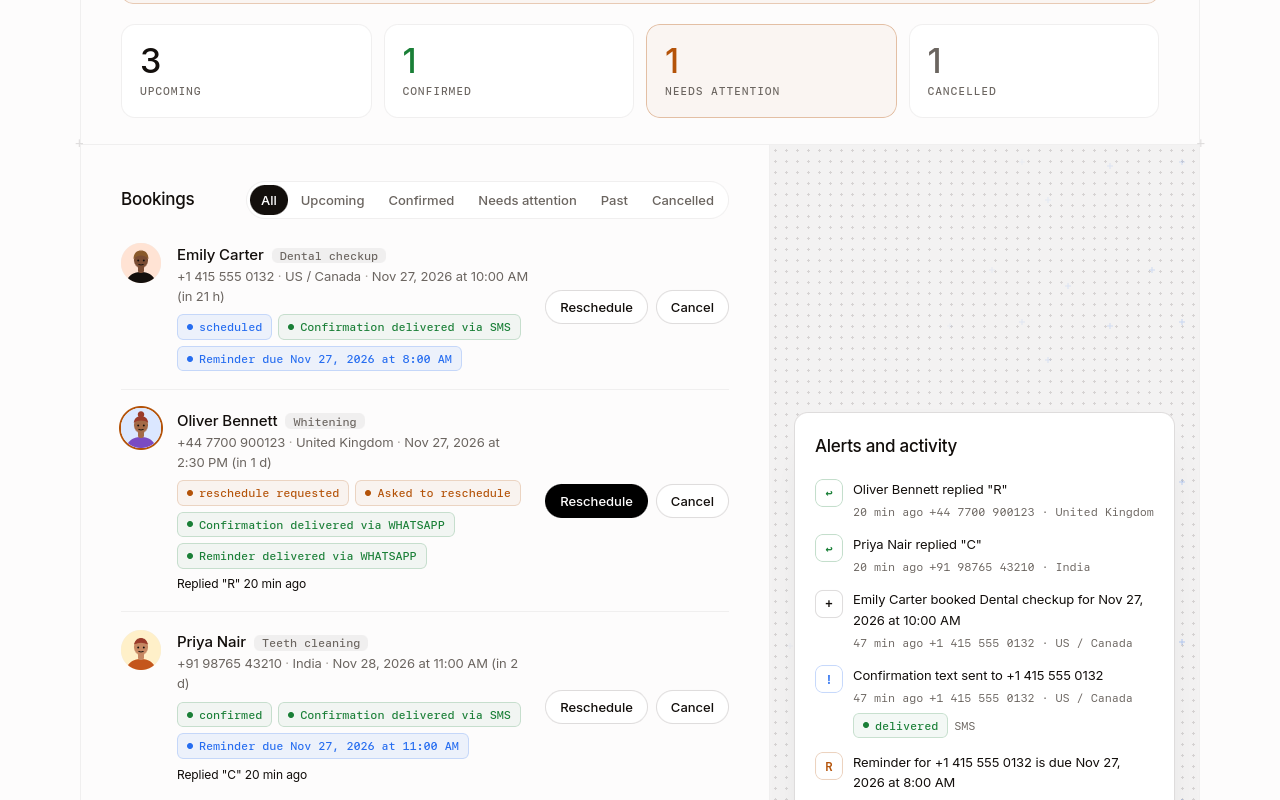
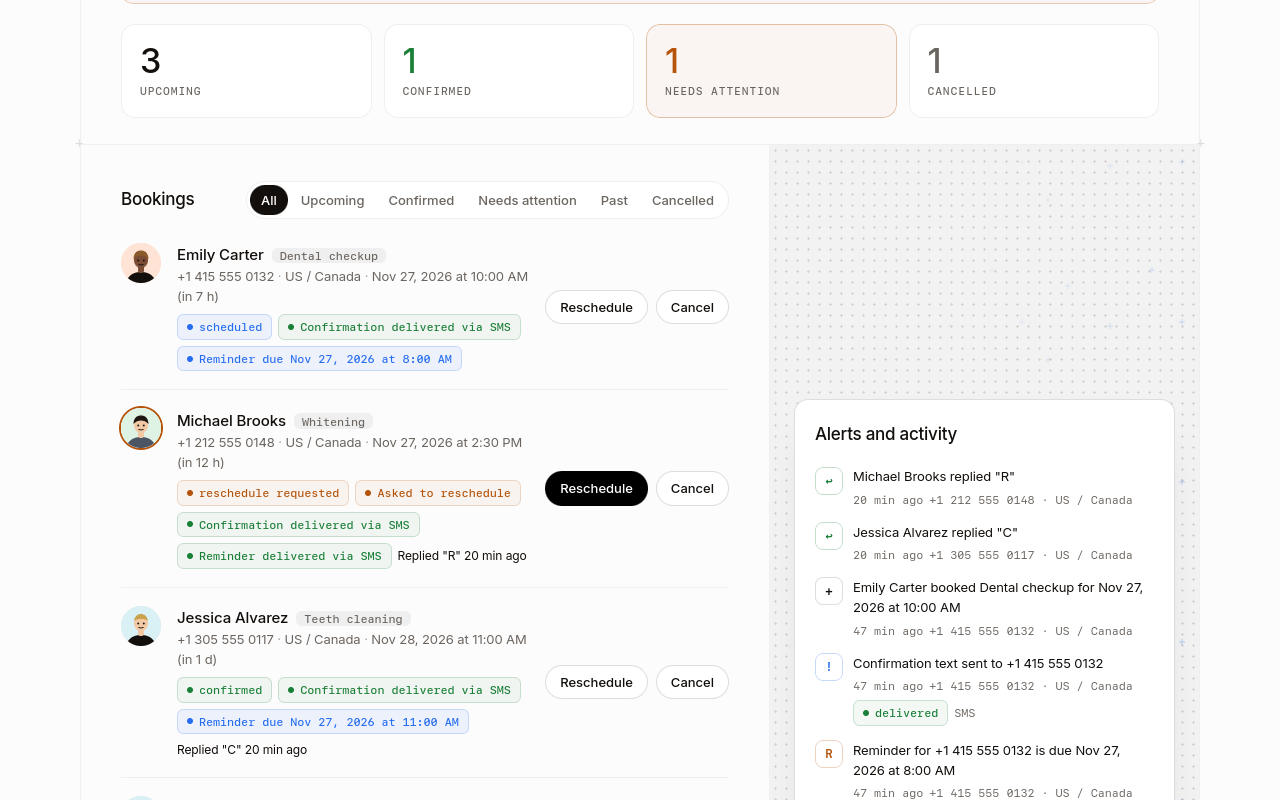
Make the project US oriented: New York time and US sample customers in the defaults, tests and screenshots

diff --git a/src/config.ts b/src/config.ts
@@ -69,7 +69,7 @@ export function loadConfig(env: NodeJS.ProcessEnv = process.env): Config {
     problems.push(`NO_REPLY_WARNING_HOURS must be a positive number, got "${env.NO_REPLY_WARNING_HOURS}"`);
   }
 
-  const timezone = env.BUSINESS_TIMEZONE ?? 'UTC';
+  const timezone = env.BUSINESS_TIMEZONE ?? 'America/New_York';
   if (!validTimezone(timezone)) {
     problems.push(`BUSINESS_TIMEZONE "${timezone}" is not a valid IANA timezone, for example America/New_York`);
   }
@@ -98,7 +98,7 @@ export function loadConfig(env: NodeJS.ProcessEnv = process.env): Config {
 
   const defaultCountryCode = env.DEFAULT_COUNTRY_CODE?.trim() || '+1';
   if (!/^\+[1-9]\d{0,2}$/.test(defaultCountryCode)) {
-    problems.push(`DEFAULT_COUNTRY_CODE must look like +1 or +91, got "${env.DEFAULT_COUNTRY_CODE}"`);
+    problems.push(`DEFAULT_COUNTRY_CODE must look like +1 or +44, got "${env.DEFAULT_COUNTRY_CODE}"`);
   }
 
   const bookingsPerHourPerIp = Number(env.BOOKINGS_PER_HOUR_PER_IP ?? 10);

diff --git a/README.md b/README.md
@@ -336,7 +336,7 @@ All settings are environment variables, usually kept in `.env`. [`.env.example`]
 | `REMINDER_OPTIONS` | `1440,120,60` | Reminder times customers can choose, in minutes before the appointment. |
 | `NO_REPLY_WARNING_HOURS` | `3` | How long before the appointment a booking without a reply is flagged. |
 | `SERVICES` | `Appointment` | Comma-separated list of services customers can book. |
-| `BUSINESS_TIMEZONE` | `UTC` | IANA timezone for business hours and for the dates in texts, for example `America/New_York`. |
+| `BUSINESS_TIMEZONE` | `America/New_York` | IANA timezone for business hours and for the dates in texts, for example `America/Chicago` or `America/Los_Angeles`. |
 | `BOOKING_START_HOUR` | `9` | First bookable hour. |
 | `BOOKING_END_HOUR` | `17` | End of the last slot. |
 | `SLOT_MINUTES` | `30` | Slot length: 10, 15, 20, 30, 45 or 60. |
@@ -381,7 +381,7 @@ curl "http://localhost:3000/api/slots?date=2026-12-03"
 
 curl -X POST http://localhost:3000/api/bookings \
   -H "Content-Type: application/json" \
-  -d '{"service": "Dental checkup", "name": "Sana Mehta", "phone": "+14155551234", "startsAt": "2026-12-03T14:30:00.000Z", "reminderMinutes": 120}'
+  -d '{"service": "Dental checkup", "name": "Emily Carter", "phone": "+14155551234", "startsAt": "2026-12-03T14:30:00.000Z", "reminderMinutes": 120}'
 ```
 
 ## Project layout
